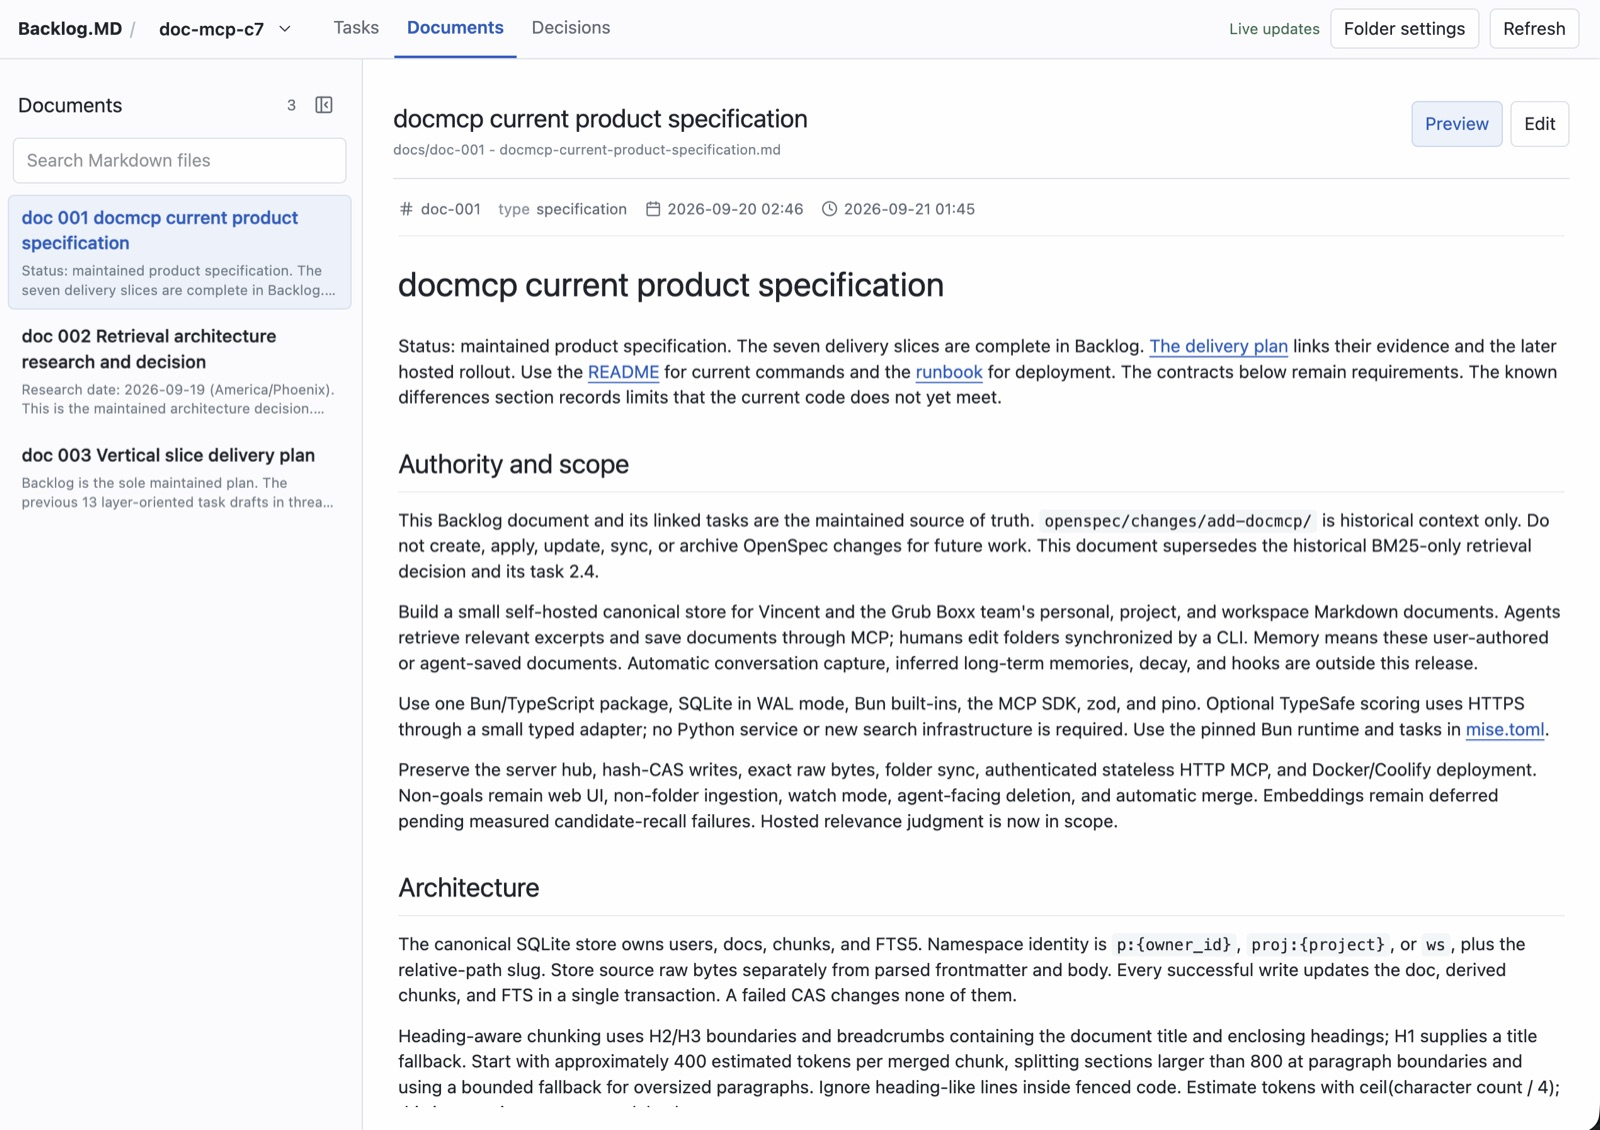
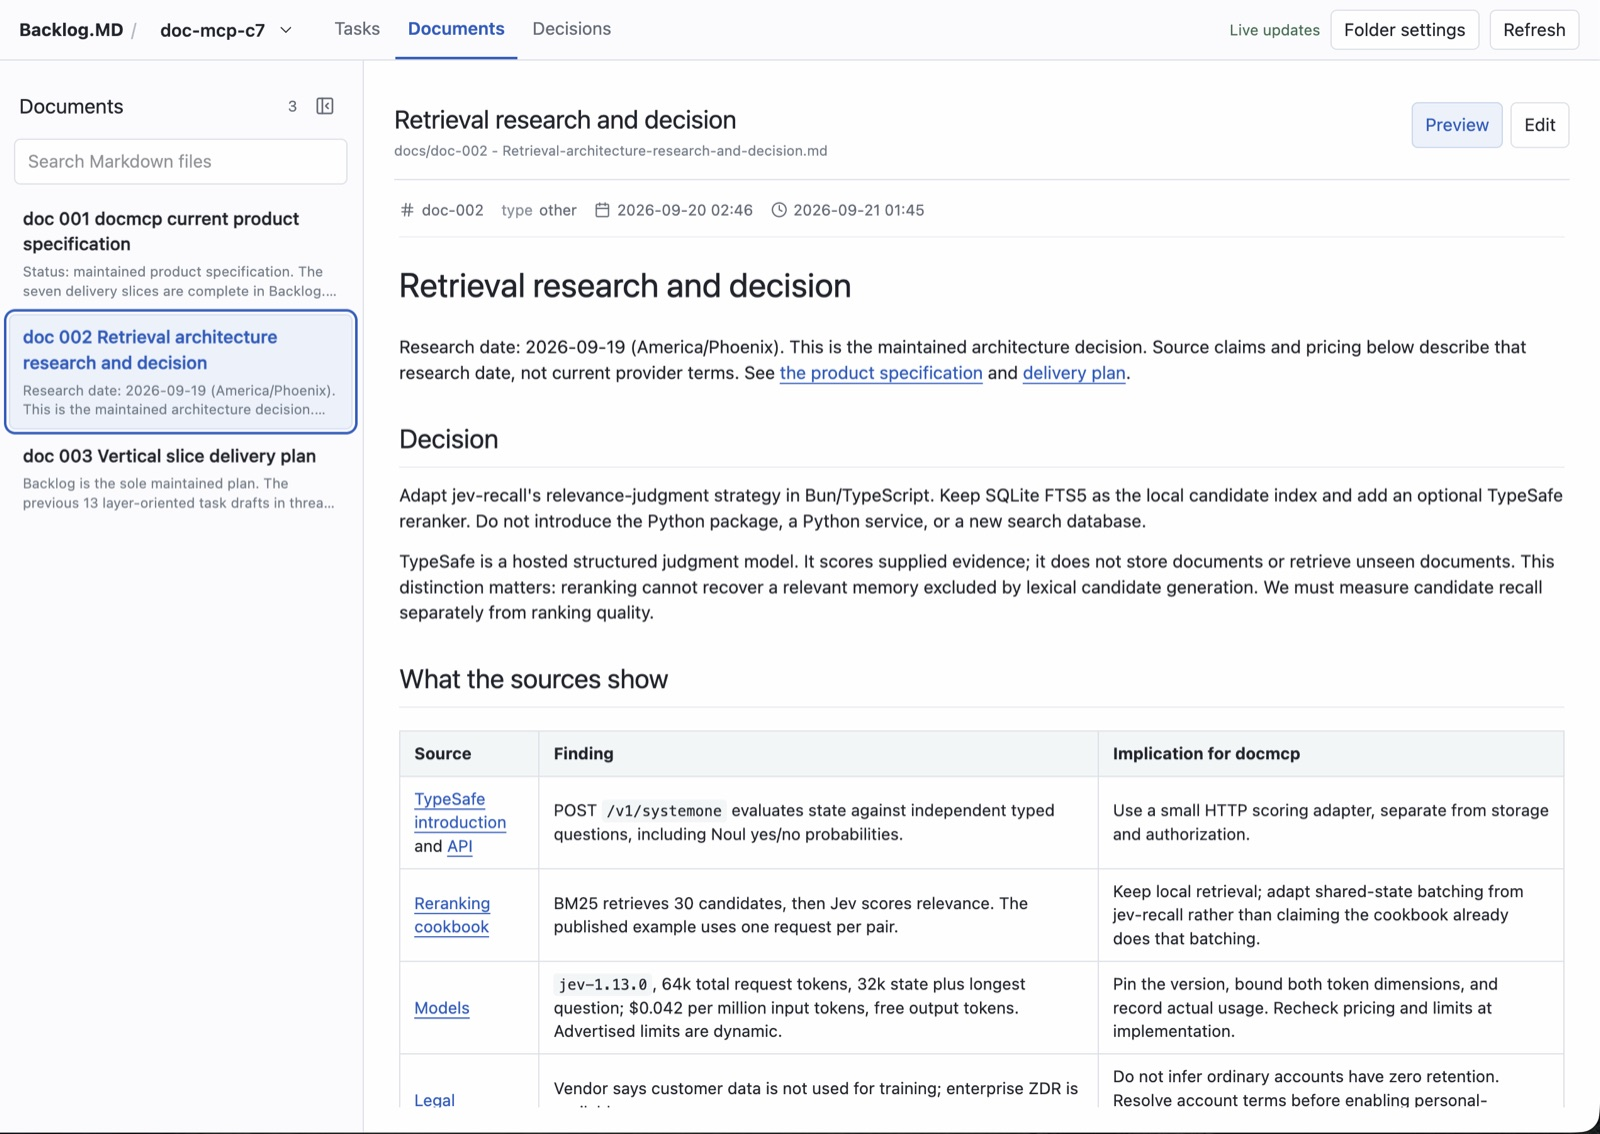
docs: replace documents screenshot
The previous screenshot showed internal project text. The new one shows
a neutral document. The v1.0.0 notes now load it from the release
download, because the tag keeps the old file.

diff --git a/docs/releases/v1.0.0.md b/docs/releases/v1.0.0.md
@@ -31,7 +31,7 @@ This makes BB split view work better:
 
 ## Documents and decisions
 
-![A document with its front matter row and the file list](https://raw.githubusercontent.com/StreamlinedStartup/bb-plugin-backlog/v1.0.0/docs/screenshots/documents.jpg)
+![A document with its front matter row and the file list](https://github.com/StreamlinedStartup/bb-plugin-backlog/releases/download/v1.0.0/documents.jpg)
 
 The new **Documents** and **Decisions** tabs list the Markdown files in `docs/`
 and `decisions/` of the Backlog folder.
